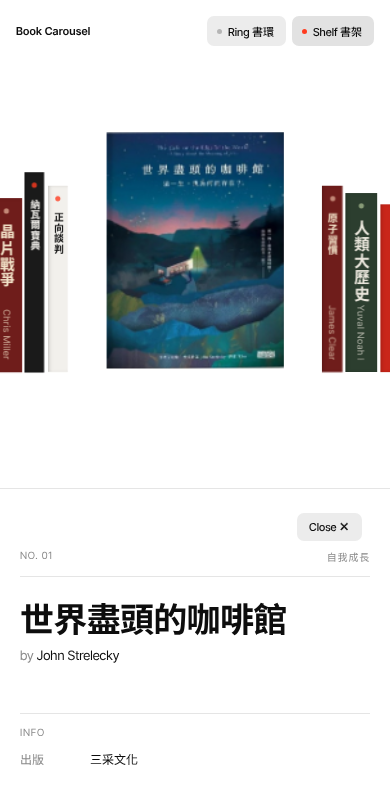
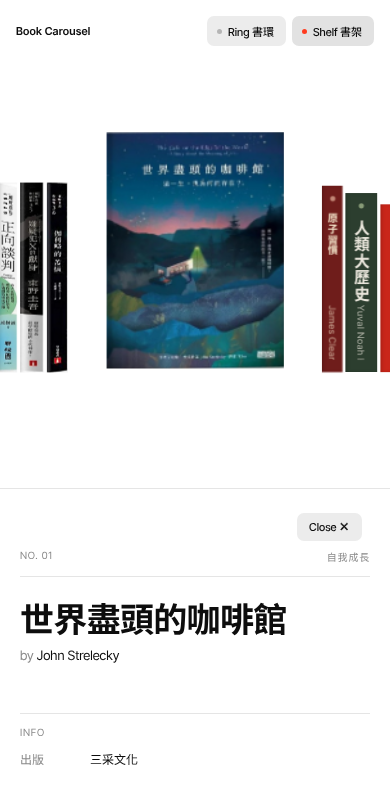
Real covers for 1984 (野人), 晶片戰爭; add 嫌疑犯X的獻身, 伽利略的苦惱
Claude-Session: https://claude.ai/code/session_01RWwSRDu3iKruNzbqgCPziP

Changed region(s): [[0.0, 0.1875, 0.1846, 0.4688]]

diff --git a/books.js b/books.js
@@ -31,8 +31,11 @@ window.BOOKS = [
   {title:'哈利波特5 鳳凰會的密令',author:'J.K. 羅琳',publisher:'皇冠文化',cat:'奇幻',pages:944},
   {title:'哈利波特6 混血王子的背叛',author:'J.K. 羅琳',publisher:'皇冠文化',cat:'奇幻',pages:720},
   {title:'哈利波特7 死神的聖物',author:'J.K. 羅琳',publisher:'皇冠文化',cat:'奇幻',pages:848},
-  {title:'1984',author:'George Orwell',publisher:'遠流',cat:'文學',pages:352},
-  {title:'晶片戰爭',author:'Chris Miller',publisher:'天下雜誌',cat:'商業',pages:468},
+  {title:'1984',author:'George Orwell',publisher:'野人文化（吳妍儀譯）',cat:'文學',pages:318,cover:'covers/1984-cover.jpg',spine:'covers/1984-spine.jpg',color:'#efece4'},
+  {title:'晶片戰爭',cover:'covers/chip-war-cover.jpg',spine:'covers/chip-war-spine.jpg',color:'#f2f2f0',author:'Chris Miller',publisher:'天下雜誌（暢銷增訂版）',cat:'商業',pages:468},
   {title:'納瓦爾寶典',author:'Eric Jorgenson',publisher:'天下雜誌',cat:'投資理財',pages:288},
   {title:'正向談判',cover:'covers/negotiation-cover.jpg',spine:'covers/negotiation-spine.jpg',color:'#eef3f0',author:'戚樹誠',publisher:'聯經',cat:'商業',pages:288},
+  // 東野圭吾（皇冠新譯版頁數查不到，暫用舊版頁數）
+  {title:'嫌疑犯X的獻身',author:'東野圭吾',publisher:'皇冠文化',cat:'推理',pages:349,cover:'covers/suspect-x-cover.jpg',spine:'covers/suspect-x-spine.jpg',color:'#1d1b1b'},
+  {title:'伽利略的苦惱',author:'東野圭吾',publisher:'皇冠文化（王蘊潔譯）',cat:'推理',pages:301,cover:'covers/galileo-cover.jpg',spine:'covers/galileo-spine.jpg',color:'#0d1416'},
 ];
